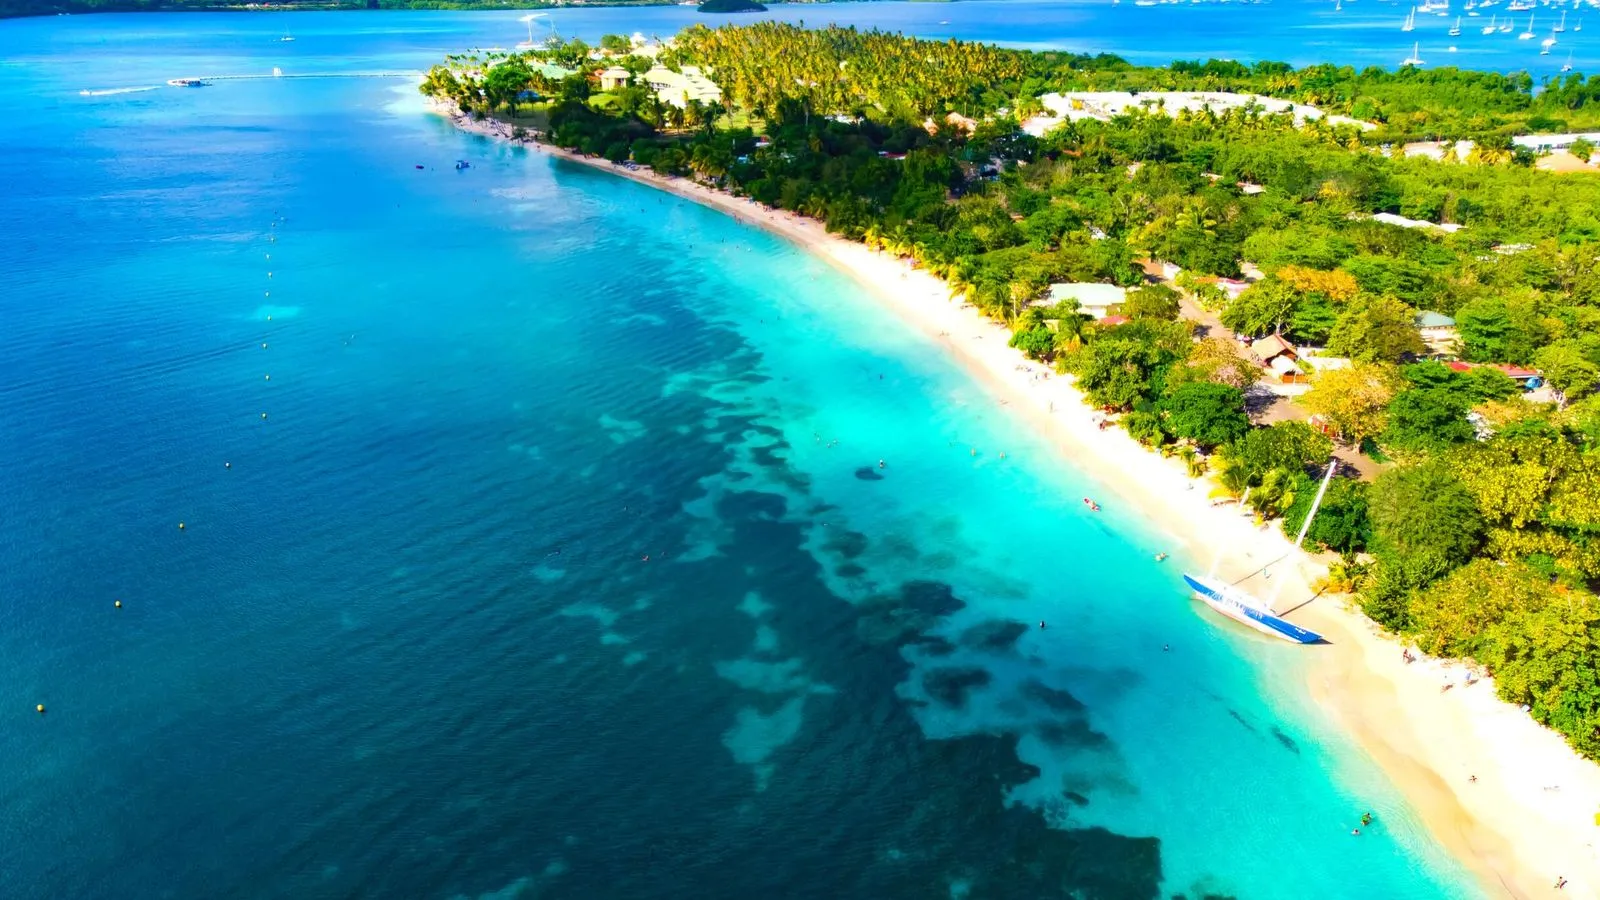
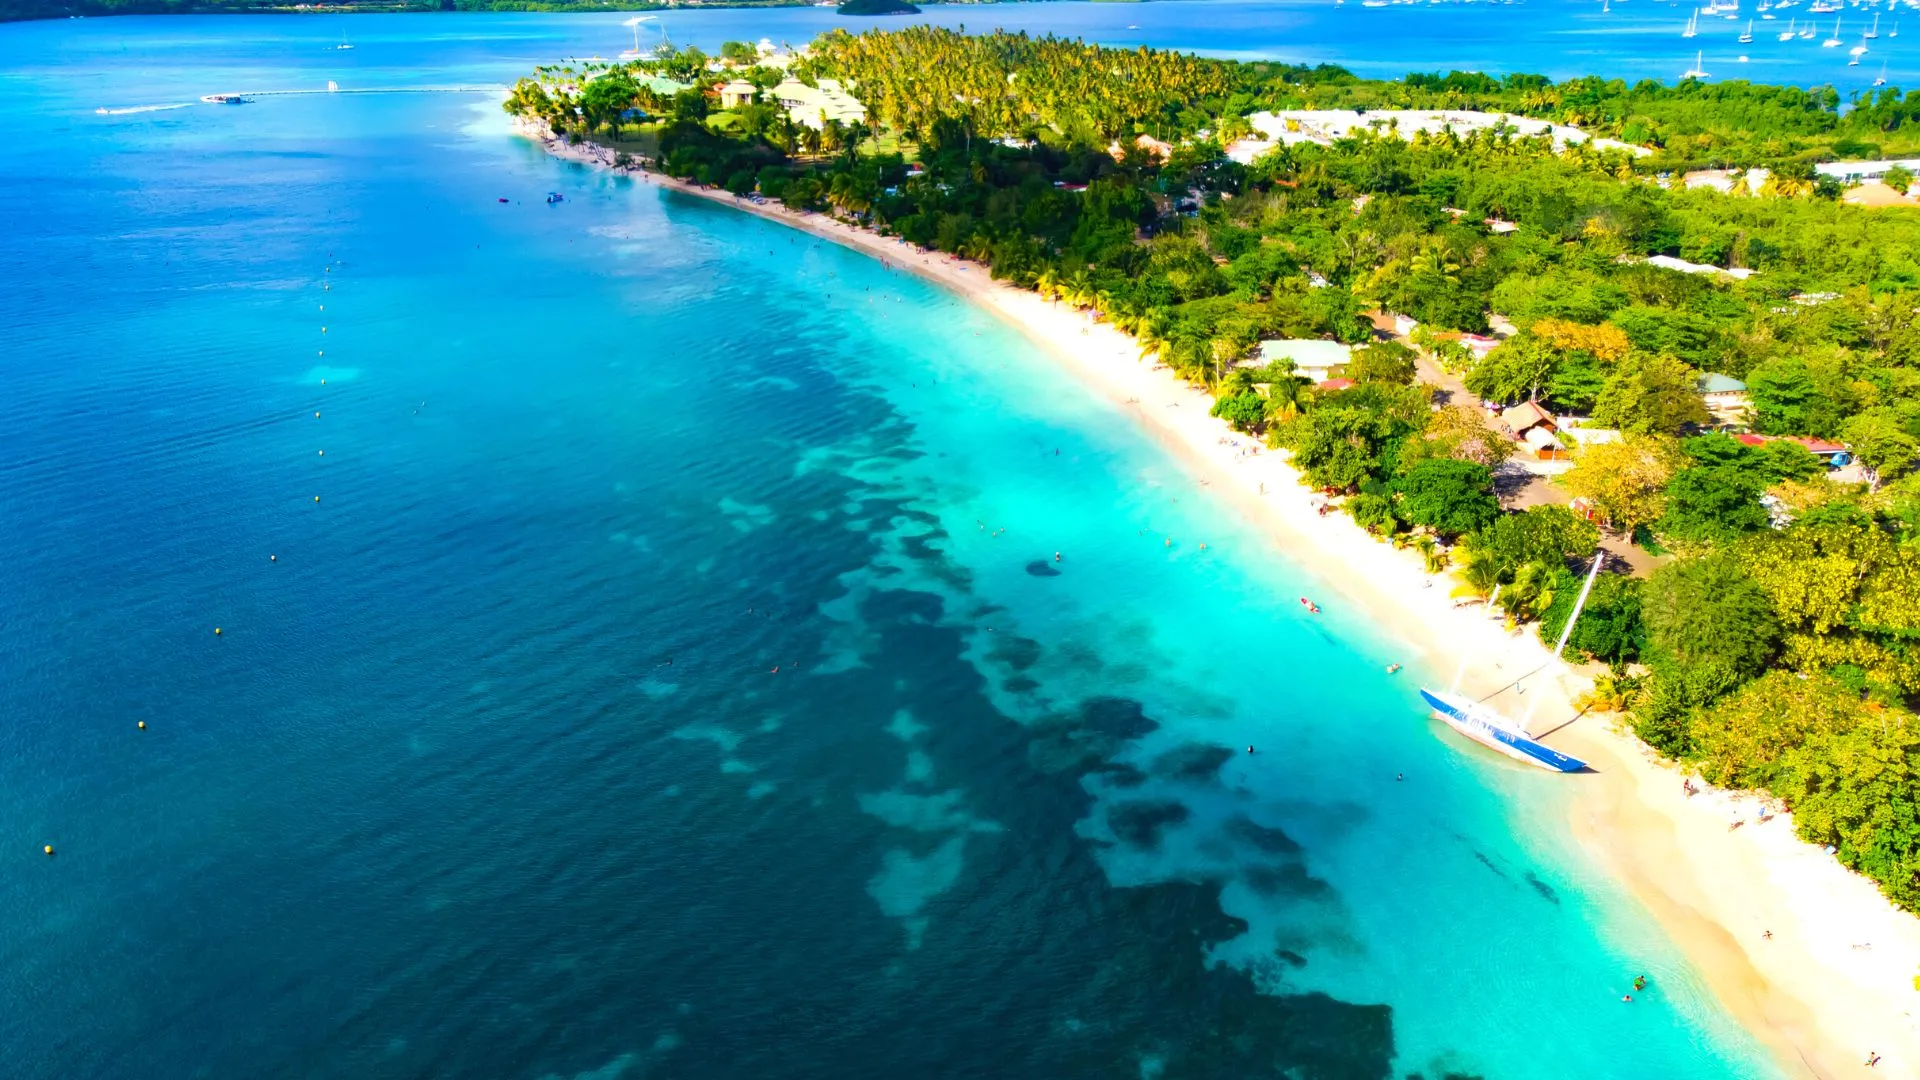
feat(landing): hero plein écran — image plein cadre, arguments vitrés en surimpression, progression discrète
- L'image du carousel prend tout l'écran (min-h-dvh) ; en-tête transparent en
  surimpression sur la page de garde (logo clair), photo jusqu'en haut.
- Les 3 arguments de marque passent EN SURIMPRESSION sur la photo, texte blanc sur
  un bandeau vitré (backdrop-blur), un seul panneau à 3 items séparés par des filets.
- Barre de progression rendue DISCRÈTE, en bas à gauche (fins segments).
- Photos du client (plage, bungalow créole, porte bleue, chambre, transats) dans
  public/img/hero ; suppression des anciens plans du site.
- Suppression de l'ancienne section « promesses » sur crème + de l'eyebrow.

diff --git a/src/steps/Dates.tsx b/src/steps/Dates.tsx
@@ -61,107 +61,104 @@ export function Dates() {
   }
 
   return (
-    <div className="relative">
-      {/* Page de garde : hero plein cadre avec carousel photo (auto-rotation + barre
-          de progression). Le contenu (titre + moteur) est en surimpression, texte clair. */}
-      <HeroCarousel>
-        <div className="mx-auto max-w-5xl px-5 pb-16 pt-16 sm:pb-20 sm:pt-24">
-          {/* En-tête éditorial — sur le carousel, texte clair */}
-          <div className="max-w-2xl">
-            <h1 className="font-display text-4xl leading-[1.07] text-white text-balance drop-shadow-[0_2px_24px_rgba(6,26,45,0.5)] sm:text-5xl">
-              {t("dates.title")}
-            </h1>
-            <p className="mt-3 text-lg leading-snug text-white/85 drop-shadow-[0_1px_16px_rgba(6,26,45,0.45)] sm:text-xl">
-              {t("dates.subtitle")}
-            </p>
-            <div className="mt-4 flex flex-wrap items-center gap-x-5 gap-y-2">
-              <RatingPill tone="light" />
-              <span className="inline-flex items-center gap-1.5 text-sm font-medium text-white/90">
-                <IconLeaf className="h-4 w-4 text-corail" /> {t("dates.directBooking")}
-              </span>
-            </div>
+    <HeroCarousel>
+      {/* Page de garde : contenu en surimpression sur le carousel plein écran. Colonne
+          pleine hauteur — titre + moteur en haut, arguments (bandeau vitré) en bas ;
+          la photo respire au centre. */}
+      <div className="mx-auto flex min-h-dvh max-w-6xl flex-col px-5 pb-20 pt-24 sm:px-8 sm:pt-28">
+        {/* En-tête éditorial — texte clair sur la photo */}
+        <div className="max-w-2xl">
+          <h1 className="font-display text-[2.6rem] leading-[1.05] text-white text-balance drop-shadow-[0_2px_24px_rgba(6,26,45,0.55)] sm:text-6xl">
+            {t("dates.title")}
+          </h1>
+          <p className="mt-3 max-w-xl text-lg leading-snug text-white/85 drop-shadow-[0_1px_16px_rgba(6,26,45,0.5)] sm:text-xl">
+            {t("dates.subtitle")}
+          </p>
+          <div className="mt-4 flex flex-wrap items-center gap-x-5 gap-y-2">
+            <RatingPill tone="light" />
+            <span className="inline-flex items-center gap-1.5 text-sm font-medium text-white/90">
+              <IconLeaf className="h-4 w-4 text-corail" /> {t("dates.directBooking")}
+            </span>
+          </div>
+        </div>
+
+        {/* Moteur de recherche */}
+        <form onSubmit={submit} className="relative z-20 mt-7 max-w-4xl rounded-3xl border border-white/50 bg-white/95 p-3 shadow-float backdrop-blur sm:p-4">
+          <div className="grid gap-3 lg:grid-cols-[1.1fr_1.6fr_1fr_auto] lg:items-stretch">
+            {/* Hébergements (multi-sélection : 1, 2 ou 3) → filtre les logements */}
+            <PropertiesField
+              options={PROPERTY_OPTIONS}
+              selected={form.properties}
+              onChange={(props) => setForm((f) => ({ ...f, properties: props }))}
+            />
+
+            {/* Dates (range picker) */}
+            <DateRangePicker
+              checkIn={form.checkIn}
+              checkOut={form.checkOut}
+              onChange={(ci, co) => setForm((f) => ({ ...f, checkIn: ci, checkOut: co }))}
+            />
+
+            {/* Voyageurs */}
+            <GuestsField
+              adults={form.adults}
+              children={form.children}
+              infants={form.infants}
+              onChange={(a, c, i) => setForm((f) => ({ ...f, adults: a, children: c, infants: i }))}
+            />
+
+            {/* Rechercher */}
+            <button type="submit" className="btn-primary h-full min-h-[3.4rem] w-full px-6 lg:w-auto">
+              {t("dates.search")} <IconArrowRight className="h-4 w-4" />
+            </button>
           </div>
 
-          {/* Moteur de recherche */}
-          <form onSubmit={submit} className="relative z-20 mt-8 rounded-3xl border border-white/15 bg-white/95 p-3 shadow-float backdrop-blur sm:p-4">
-            <div className="grid gap-3 lg:grid-cols-[1.1fr_1.6fr_1fr_auto] lg:items-stretch">
-              {/* Hébergements (multi-sélection : 1, 2 ou 3) → filtre les logements */}
-              <PropertiesField
-                options={PROPERTY_OPTIONS}
-                selected={form.properties}
-                onChange={(props) => setForm((f) => ({ ...f, properties: props }))}
-              />
+          <div className="mt-2 px-1 text-xs text-ink/55">
+            {n > 0 ? (
+              <span>{t("dates.nightsGuests", { nights: n, guests: form.adults + form.children })}</span>
+            ) : (
+              <span>{t("dates.pickDatesHint")}</span>
+            )}
+          </div>
 
-              {/* Dates (range picker) */}
-              <DateRangePicker
-                checkIn={form.checkIn}
-                checkOut={form.checkOut}
-                onChange={(ci, co) => setForm((f) => ({ ...f, checkIn: ci, checkOut: co }))}
-              />
+          {error && <p className="mt-2 px-1 text-sm font-medium text-red-600">{error}</p>}
+        </form>
 
-              {/* Voyageurs */}
-              <GuestsField
-                adults={form.adults}
-                children={form.children}
-                infants={form.infants}
-                onChange={(a, c, i) => setForm((f) => ({ ...f, adults: a, children: c, infants: i }))}
-              />
+        {/* Laisse respirer la photo entre le moteur et les arguments */}
+        <div className="min-h-[2rem] flex-1" />
 
-              {/* Rechercher */}
-              <button type="submit" className="btn-primary h-full min-h-[3.4rem] w-full px-6 lg:w-auto">
-                {t("dates.search")} <IconArrowRight className="h-4 w-4" />
-              </button>
-            </div>
-
-            <div className="mt-2 px-1 text-xs text-ink/55">
-              {n > 0 ? (
-                <span>{t("dates.nightsGuests", { nights: n, guests: form.adults + form.children })}</span>
-              ) : (
-                <span>{t("dates.pickDatesHint")}</span>
-              )}
-            </div>
-
-            {error && <p className="mt-2 px-1 text-sm font-medium text-red-600">{error}</p>}
-          </form>
-        </div>
-      </HeroCarousel>
-
-      {/* Nos promesses — arguments de marque repris de bambouresort.com (sous le hero) */}
-      <div className="mx-auto max-w-5xl px-5 py-16">
-        <p className="text-center text-xs font-semibold uppercase tracking-[0.2em] text-corail">
-          {t("dates.artDeVivre")}
-        </p>
-        <div className="mx-auto mt-8 grid max-w-4xl gap-10 sm:grid-cols-3">
-          <PromiseCard
-            icon={<IconWave className="h-6 w-6" />}
-            title={t("dates.promise1Title")}
-            text={t("dates.promise1Text")}
-          />
-          <PromiseCard
-            icon={<IconMapPin className="h-6 w-6" />}
-            title={t("dates.promise2Title")}
-            text={t("dates.promise2Text")}
-          />
-          <PromiseCard
-            icon={<IconPalm className="h-6 w-6" />}
-            title={t("dates.promise3Title")}
-            text={t("dates.promise3Text")}
-          />
-        </div>
+        {/* Arguments de marque — EN SURIMPRESSION sur bandeau vitré (glass), texte clair */}
+        <HeroPromises />
       </div>
-    </div>
+    </HeroCarousel>
   );
 }
 
-// Argument de marque — style « Nos promesses » du site : cercle corail fin + icône centrée.
-function PromiseCard({ icon, title, text }: { icon: React.ReactNode; title: string; text: string }) {
+// Arguments de marque, EN SURIMPRESSION sur la photo : un seul bandeau vitré
+// (glassmorphism) avec 3 items séparés par des filets — pas 3 cartes séparées.
+// Sur mobile : empilé, descriptions masquées pour rester compact.
+const PROMISES: { Icon: (p: { className?: string }) => JSX.Element; title: TKey; text: TKey }[] = [
+  { Icon: IconWave, title: "dates.promise1Title", text: "dates.promise1Text" },
+  { Icon: IconMapPin, title: "dates.promise2Title", text: "dates.promise2Text" },
+  { Icon: IconPalm, title: "dates.promise3Title", text: "dates.promise3Text" },
+];
+
+function HeroPromises() {
   return (
-    <div className="flex flex-col items-center text-center">
-      <span className="grid h-16 w-16 place-items-center rounded-full border border-corail/40 text-corail">
-        {icon}
-      </span>
-      <p className="mt-4 font-semibold text-marine">{title}</p>
-      <p className="mt-1.5 text-sm leading-relaxed text-marine/60">{text}</p>
+    <div className="mt-8 max-w-4xl overflow-hidden rounded-2xl border border-white/20 bg-white/10 shadow-[0_20px_60px_-24px_rgba(6,26,45,0.75)] backdrop-blur-xl">
+      <div className="grid divide-y divide-white/15 sm:grid-cols-3 sm:divide-x sm:divide-y-0">
+        {PROMISES.map((p) => (
+          <div key={p.title} className="flex items-start gap-3 px-5 py-4">
+            <span className="mt-0.5 shrink-0 text-corail">
+              <p.Icon className="h-5 w-5" />
+            </span>
+            <div className="min-w-0">
+              <p className="font-semibold leading-tight text-white">{t(p.title)}</p>
+              <p className="mt-1 hidden text-xs leading-snug text-white/75 sm:block">{t(p.text)}</p>
+            </div>
+          </div>
+        ))}
+      </div>
     </div>
   );
 }

diff --git a/src/components/HeroCarousel.tsx b/src/components/HeroCarousel.tsx
@@ -1,17 +1,17 @@
 import { useEffect, useState, type ReactNode } from "react";
 import { t } from "../i18n";
 
-// Carousel plein cadre en fond de la page de garde : photos qui défilent en fondu
-// (auto-rotation) avec une barre de progression segmentée façon « stories ».
-// Les photos sont les plus beaux plans du site bambouresort.com (public/img/hero).
+// Carousel plein écran en fond de la page de garde : photos du resort en fondu
+// enchaîné (auto-rotation) + léger zoom Ken Burns. Barre de progression DISCRÈTE en
+// bas à gauche. Photos fournies par le client (public/img/hero).
 const SLIDES = [
-  "/img/hero/1-plage.webp",
-  "/img/hero/2-vue-ciel.webp",
-  "/img/hero/3-vue-mer.webp",
-  "/img/hero/4-piscine.webp",
-  "/img/hero/5-escale.webp",
+  "/img/hero/1-plage.webp", // plage aérienne (paysage)
+  "/img/hero/2-bungalow.jpg", // bungalow créole jaune (portrait)
+  "/img/hero/3-porte.webp", // porte bleue créole (portrait)
+  "/img/hero/4-chambre.jpg", // chambre (paysage)
+  "/img/hero/5-transats.jpg", // transats & parasol face à la mer (portrait)
 ];
-const INTERVAL = 6000; // doit rester synchronisé avec l'animation `hero-progress` (6s)
+const INTERVAL = 6000; // synchronisé avec l'animation `hero-progress` (6s)
 
 function usePrefersReducedMotion(): boolean {
   const [reduced, setReduced] = useState(false);
@@ -30,8 +30,8 @@ export function HeroCarousel({ children }: { children: ReactNode }) {
   const reduced = usePrefersReducedMotion();
   const count = SLIDES.length;
 
-  // Auto-rotation : un timer relancé à chaque changement de photo (donc aussi au clic
-  // sur un segment). Désactivée si l'utilisateur préfère les animations réduites.
+  // Auto-rotation : timer relancé à chaque changement (donc aussi au clic sur un
+  // segment). Désactivée si l'utilisateur préfère les animations réduites.
   useEffect(() => {
     if (reduced) return;
     const id = setTimeout(() => setActive((i) => (i + 1) % count), INTERVAL);
@@ -40,9 +40,8 @@ export function HeroCarousel({ children }: { children: ReactNode }) {
 
   return (
     <section className="relative isolate">
-      {/* Couches photo (fondu enchaîné + léger zoom Ken Burns sur l'active).
-          overflow-hidden ICI seulement (pas sur la section) pour ne pas rogner les
-          popovers du formulaire (dates / voyageurs) qui s'ouvrent vers le bas. */}
+      {/* Couches photo plein cadre — overflow-hidden ICI seulement (pas sur la section)
+          pour ne pas rogner les popovers du formulaire qui s'ouvrent vers le bas. */}
       <div className="absolute inset-0 overflow-hidden" aria-hidden="true">
         {SLIDES.map((src, i) => (
           <div
@@ -60,35 +59,41 @@ export function HeroCarousel({ children }: { children: ReactNode }) {
             />
           </div>
         ))}
-        {/* Voile dégradé pour la lisibilité du texte blanc / du formulaire */}
-        <div className="absolute inset-0 bg-gradient-to-br from-ink/75 via-ink/45 to-ink/70" />
+        {/* Voile dégradé : sombre en haut (titre) et en bas (arguments / progression),
+            plus clair au centre pour laisser respirer la photo. */}
+        <div className="absolute inset-0 bg-gradient-to-b from-ink/70 via-ink/20 to-ink/85" />
       </div>
 
-      {/* Barre de progression segmentée (façon stories) — cliquable */}
-      <div className="absolute inset-x-0 top-0 z-20">
-        <div className="mx-auto flex max-w-5xl gap-1.5 px-5 pt-4 sm:pt-5">
-          {SLIDES.map((_, i) => (
-            <button
-              key={i}
-              type="button"
-              onClick={() => setActive(i)}
-              aria-label={t("hero.goToSlide", { n: i + 1, total: count })}
-              className="group relative h-1.5 flex-1 overflow-hidden rounded-full bg-white/25 transition hover:bg-white/40"
-            >
+      {/* Contenu (titre + moteur + arguments) au-dessus du carousel */}
+      <div className="relative z-10">{children}</div>
+
+      {/* Barre de progression DISCRÈTE — bas à gauche. Fins segments (le clic navigue).
+          py-2 = zone tactile confortable autour du trait fin. */}
+      <div className="absolute bottom-5 left-5 z-20 flex items-center gap-1.5 sm:left-8">
+        {SLIDES.map((_, i) => (
+          <button
+            key={i}
+            type="button"
+            onClick={() => setActive(i)}
+            aria-label={t("hero.goToSlide", { n: i + 1, total: count })}
+            aria-current={i === active}
+            className="group py-2"
+          >
+            <span className="block h-[3px] w-6 overflow-hidden rounded-full bg-white/35 transition group-hover:bg-white/60 sm:w-9">
               <span
                 key={`fill-${i}-${active}`}
                 className={`block h-full w-full origin-left rounded-full bg-white ${
                   i === active && !reduced ? "animate-hero-progress" : ""
                 }`}
-                style={{ transform: i < active || (i === active && reduced) ? "scaleX(1)" : i > active ? "scaleX(0)" : undefined }}
+                style={{
+                  transform:
+                    i < active || (i === active && reduced) ? "scaleX(1)" : i > active ? "scaleX(0)" : undefined,
+                }}
               />
-            </button>
-          ))}
-        </div>
+            </span>
+          </button>
+        ))}
       </div>
-
-      {/* Contenu (titre + moteur de recherche) au-dessus du carousel */}
-      <div className="relative z-10">{children}</div>
     </section>
   );
 }

diff --git a/src/App.tsx b/src/App.tsx
@@ -29,6 +29,9 @@ function Shell() {
   const { step, hotelError, reloadHotel, resetAll, goTo, hydrating } = useBooking();
   const StepView = STEP_COMPONENTS[step];
   const showProgress = ["results", "guest", "upgrade", "extras", "payment"].includes(step);
+  // Page de garde : le carousel prend tout l'écran → en-tête transparent EN SURIMPRESSION
+  // (logo clair), pour que la photo remonte jusqu'en haut. Autres étapes : barre crème.
+  const isHero = step === "dates";
 
   useEffect(() => {
     window.scrollTo({ top: 0, behavior: "smooth" });
@@ -41,8 +44,14 @@ function Shell() {
 
   return (
     <div className="flex min-h-dvh flex-col bg-cream">
-      <header className="sticky top-0 z-30 border-b border-ink/5 bg-cream/85 backdrop-blur">
-        <div className="mx-auto flex max-w-6xl flex-col gap-3 px-5 py-3 sm:flex-row sm:items-center sm:justify-between">
+      <header
+        className={
+          isHero
+            ? "absolute inset-x-0 top-0 z-30"
+            : "sticky top-0 z-30 border-b border-ink/5 bg-cream/85 backdrop-blur"
+        }
+      >
+        <div className="mx-auto flex max-w-6xl flex-col gap-3 px-5 py-3 sm:flex-row sm:items-center sm:justify-between sm:px-8">
           <button
             type="button"
             onClick={() => {
@@ -52,15 +61,19 @@ function Shell() {
             className="self-start"
             aria-label={t("header.home")}
           >
-            <Brand className="text-teal-deep" />
+            <Brand className={isHero ? "text-cream drop-shadow-[0_1px_12px_rgba(6,26,45,0.55)]" : "text-teal-deep"} />
           </button>
           {showProgress ? (
             <div className="sm:max-w-xl sm:flex-1">
               <StepProgress />
             </div>
           ) : (
-            <span className="hidden items-center gap-1.5 text-sm font-medium text-teal-deep sm:inline-flex">
-              <IconTag className="h-4 w-4 text-turquoise" /> {t("header.bestPrice")}
+            <span
+              className={`hidden items-center gap-1.5 text-sm font-medium sm:inline-flex ${
+                isHero ? "text-white/90 drop-shadow-[0_1px_12px_rgba(6,26,45,0.55)]" : "text-teal-deep"
+              }`}
+            >
+              <IconTag className={`h-4 w-4 ${isHero ? "text-corail" : "text-turquoise"}`} /> {t("header.bestPrice")}
             </span>
           )}
         </div>
